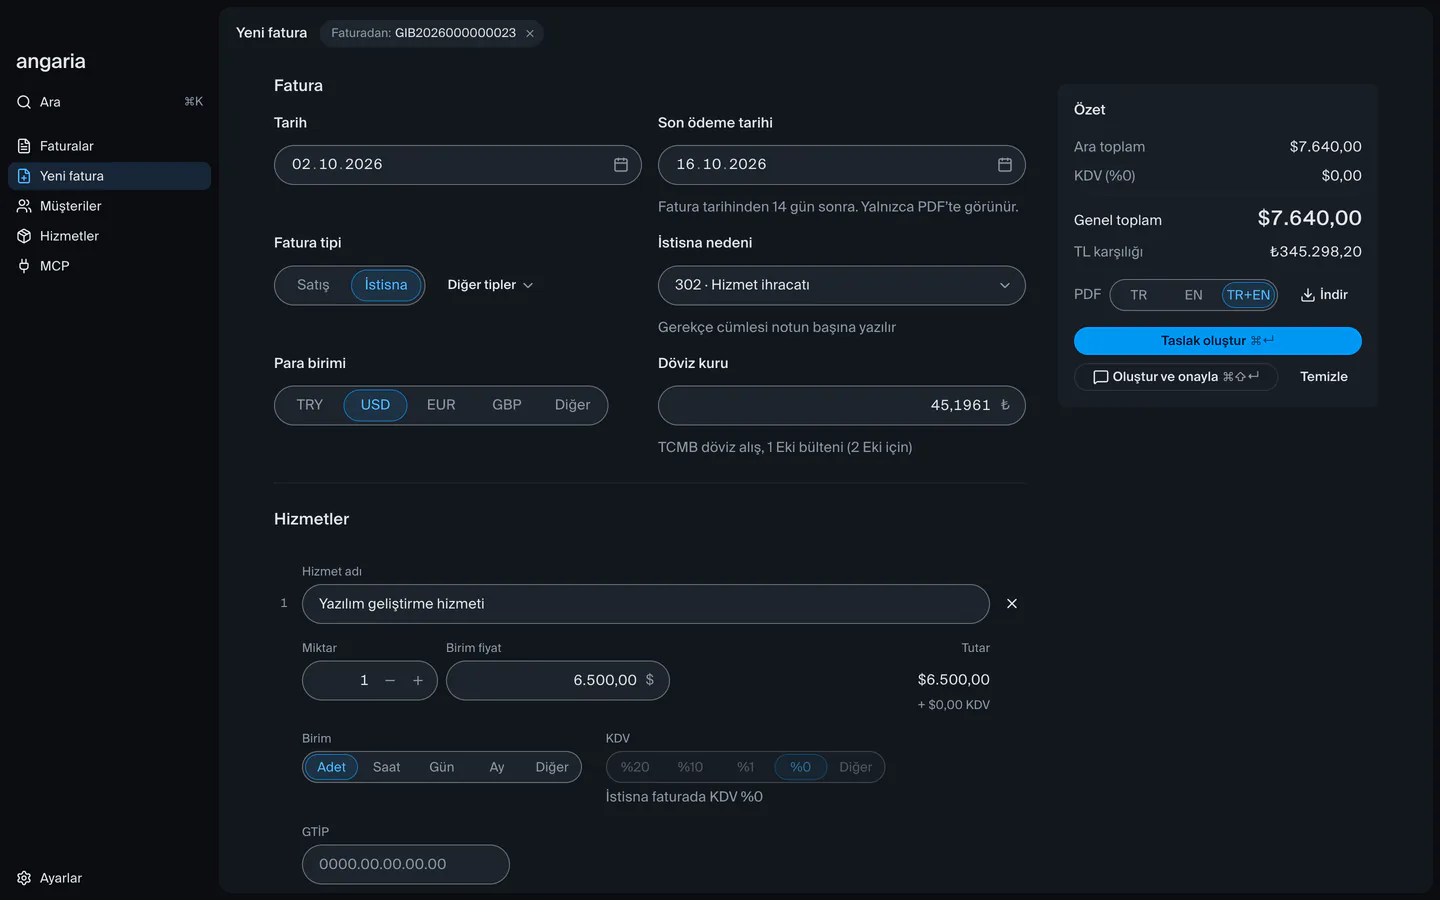
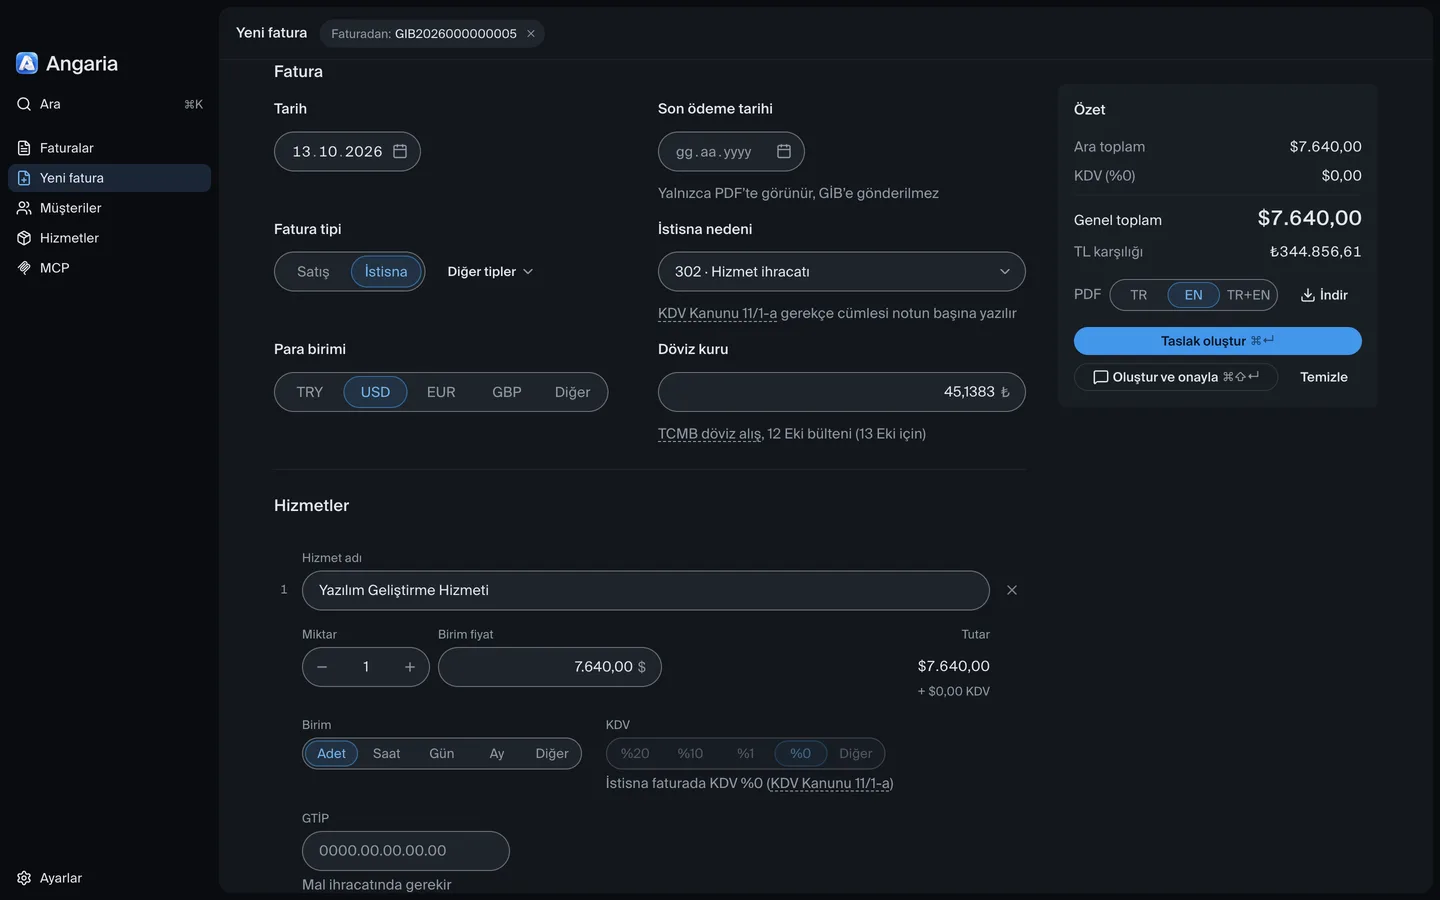
feat(web): recapture the app screenshots with the demo names and the current UI
Faturalar and Yeni fatura in light and dark, 1440 and 2880, plain and
framed, with Mert Düzgün's demo data and the release icon. The emulator
gets more of user 12345678's recent invoices and seeds every user's
documents oldest first, so their numbers rise with the date.

diff --git a/packages/gib-emulator/src/config.ts b/packages/gib-emulator/src/config.ts
@@ -259,6 +259,102 @@ const defaultSeedInvoices: Array<InvoiceFixture> = [
     userid: '12345678',
     vatRate: 20,
   },
+  // More of Mert Düzgün's months, so Faturalar's last three months look lived in
+  // (the landing's screenshots, docs/screenshots.md).
+  {
+    amount: 2400,
+    country: 'Almanya',
+    currency: 'EUR',
+    daysAgo: 1,
+    item: 'Danışmanlık Hizmeti',
+    note: '302 - 11/1-a Hizmet ihracatı.',
+    rate: 48.3021,
+    recipient: 'knobs.dev',
+    status: 'Onaylanmadı',
+    taxID: '2222222222',
+    userid: '12345678',
+    vatRate: 0,
+  },
+  {
+    amount: 3150,
+    country: 'Birleşik Krallık',
+    currency: 'GBP',
+    daysAgo: 2,
+    item: 'Ürün Tasarımı',
+    note: '302 - 11/1-a Hizmet ihracatı.',
+    rate: 56.1874,
+    recipient: 'attention awareness',
+    status: 'Onaylanmadı',
+    taxID: '2222222222',
+    userid: '12345678',
+    vatRate: 0,
+  },
+  {
+    amount: 3150,
+    country: 'Birleşik Krallık',
+    currency: 'GBP',
+    daysAgo: 26,
+    item: 'Ürün Tasarımı',
+    note: '302 - 11/1-a Hizmet ihracatı.',
+    rate: 55.9318,
+    recipient: 'attention awareness',
+    status: 'Onaylandı',
+    taxID: '2222222222',
+    userid: '12345678',
+    vatRate: 0,
+  },
+  {
+    amount: 7640,
+    country: 'Amerika Birleşik Dev',
+    currency: 'USD',
+    daysAgo: 33,
+    item: 'Yazılım Geliştirme Hizmeti',
+    note: '302 - 11/1-a Hizmet ihracatı.',
+    rate: 41.0457,
+    recipient: 'Agent Caffeine',
+    status: 'Onaylandı',
+    taxID: '2222222222',
+    userid: '12345678',
+    vatRate: 0,
+  },
+  {
+    amount: 18_500,
+    currency: 'TRY',
+    daysAgo: 47,
+    item: 'Web Sitesi Bakımı',
+    recipient: 'Vinena Studio',
+    status: 'Onaylandı',
+    taxID: '1234567890',
+    taxOffice: 'Kadıköy',
+    userid: '12345678',
+    vatRate: 20,
+  },
+  {
+    amount: 8000,
+    currency: 'TRY',
+    daysAgo: 55,
+    item: 'Logo Tasarımı',
+    recipient: 'Ahmet Buğra',
+    status: 'Onaylandı',
+    surname: 'Yiğiter',
+    taxID: '23456789060',
+    userid: '12345678',
+    vatRate: 20,
+  },
+  {
+    amount: 4200,
+    country: 'Almanya',
+    currency: 'EUR',
+    daysAgo: 61,
+    item: 'Danışmanlık Hizmeti',
+    note: '302 - 11/1-a Hizmet ihracatı.',
+    rate: 47.6514,
+    recipient: 'knobs.dev',
+    status: 'Onaylandı',
+    taxID: '2222222222',
+    userid: '12345678',
+    vatRate: 0,
+  },
   ...historyFixtures('87654321'),
 ];
 

diff --git a/packages/gib-emulator/src/state.ts b/packages/gib-emulator/src/state.ts
@@ -208,7 +208,15 @@ export function initialState(config: EmulatorConfig, now: number): State {
     sms: [],
     users: new Map(config.users.map((item) => [item.userid, structuredClone(item)])),
   };
-  for (const fixture of config.seedInvoices) {
+  // Oldest first, as GİB numbers documents: each user's numbers rise with the date.
+  const age = (fixture: InvoiceFixture) => {
+    const day = parseGIBDate(fixture.date);
+    return day
+      ? now - Date.UTC(day.year, day.month - 1, day.day)
+      : (fixture.daysAgo ?? 0) * 86_400_000;
+  };
+  const oldestFirst = config.seedInvoices.toSorted((a, b) => age(b) - age(a));
+  for (const fixture of oldestFirst) {
     if (state.users.has(fixture.userid)) {
       addFixture(state, fixture, now);
     }

diff --git a/docs/screenshots.md b/docs/screenshots.md
@@ -1,6 +1,8 @@
 # Screens
 
-Marketing screenshots of the Angaria desktop app for angaria.app. The frontend ran in a browser at a 1440×900 viewport, device scale 2, in the default color palette (mist, Serin), with the dev GİB fixtures, the TCMB rates of the GİB emulator and Suisse Intl. The sidebar shows the app's sections: Faturalar, Yeni fatura, Müşteriler, Hizmetler, MCP and Ayarlar. Every name, address, VKN/TCKN, IBAN and invoice is made up: Deniz Yılmaz Yazılım (a şahıs şirketi in Kadıköy) and its customers Northwind Labs Inc. (USD), Hafenblick Studio GmbH (EUR), Kestrel Analytics Ltd (GBP), Atlas Dijital Teknoloji A.Ş. and Mavi Kare Reklam Ltd. Şti. (TRY, Satış).
+Marketing screenshots of the Angaria desktop app for angaria.app, captured 2026-10-13. The dev frontend (`pnpm --filter desktop dev`) ran in a browser at a 1440×900 viewport, device scale 2 (captured through CDP `Page.captureScreenshot`), in the default palette (mist, Serin), against the GİB emulator (Ayarlar › Gelişmiş › Emülatör, user 12345678) with its seed invoices and TCMB rates, and Suisse Intl. The sidebar icon was swapped for the release (blue) icon before each capture. Every name and number is demo data: the seller is Mert Düzgün (emulator user 12345678), the customers are Agent Caffeine (USD), knobs.dev (EUR), attention awareness (GBP), Vinena Studio (TRY, Satış) and Ahmet Buğra Yiğiter (TRY, a person).
+
+A plain browser cannot keep the GİB session in the vault or force-close one (no cross-origin cookies), so do not reload during a capture: change the theme in Ayarlar › Görünüm and navigate inside the app. If GİB refuses a login for an open session, restart the emulator (touch a file in `packages/gib-emulator/src`).
 
 ## Files
 
@@ -12,10 +14,10 @@ Each app screen comes in eight files, `<screen>-<theme>[-framed]-<width>.webp`:
 - `2880` (2880×1800, retina) and `1440` (1440×900).
 - `-framed`: the same image as a macOS window: 20px corners (40px at 2880), concentric with the app's content panel (12px corners, 8px in from the window), on a transparent background, a 1px border and the three traffic lights in the site's gray (`#d4d4d4` light, `#3f3f3f` dark, as in `components/screenshot.tsx`). Without it: the window content edge to edge, as the app renders it.
 
-| Screen             | What it shows                                                                                                                                                                                                                                                                                                                                                                                                                                                                 |
-| ------------------ | ----------------------------------------------------------------------------------------------------------------------------------------------------------------------------------------------------------------------------------------------------------------------------------------------------------------------------------------------------------------------------------------------------------------------------------------------------------------------------- |
-| `faturalar-detail` | Faturalar, Son 3 ay: eleven invoices with totals and Taslak / Onaylı badges (two drafts, nine signed). The signed Northwind Labs invoice GIB2026000000023 ($7.640,00) is open: GİB's e-Arşiv preview with the QR code, PDF indir (Türkçe ve İngilizce), Tekrar kes.                                                                                                                                                                                                           |
-| `yeni-fatura`      | Yeni fatura from Tekrar kes on GIB2026000000023, scrolled to Fatura: the Tarih and Son ödeme tarihi date fields (14 gün sonra), İstisna with 302 · Hizmet ihracatı, USD at TCMB's buying rate (45,1961, the 1 Ekim 2026 bulletin), and the first of the two services under Hizmetler (Yazılım geliştirme hizmeti, 1 × 6.500,00 $) with its Birim and KDV choices. The Özet card shows Genel toplam, TL karşılığı, the TR+EN PDF switch, Taslak oluştur and Oluştur ve onayla. |
+| Screen             | What it shows                                                                                                                                                                                                                                                                                                                                                                                                                                                                                                |
+| ------------------ | ------------------------------------------------------------------------------------------------------------------------------------------------------------------------------------------------------------------------------------------------------------------------------------------------------------------------------------------------------------------------------------------------------------------------------------------------------------------------------------------------------------ |
+| `faturalar-detail` | Faturalar, Son 3 ay: eleven documents with totals and Taslak / Onaylı / İptal edildi / Silindi badges. The signed Agent Caffeine invoice GIB2026000000005 ($7.640,00) is open: GİB's e-Arşiv preview with the QR code, Angaria PDF (İngilizce), Tekrar kes.                                                                                                                                                                                                                                                  |
+| `yeni-fatura`      | Yeni fatura from Tekrar kes on GIB2026000000005, scrolled to Fatura: the Tarih and Son ödeme tarihi date fields, İstisna with 302 · Hizmet ihracatı and its KDV Kanunu 11/1-a link, USD at TCMB's buying rate (45,1383, the 12 Ekim 2026 bulletin, linked to TCMB's rates page), and the service under Hizmetler (Yazılım Geliştirme Hizmeti, 1 × 7.640,00 $) with its Birim and KDV choices. The Özet card shows Genel toplam, TL karşılığı, the PDF language switch, Taslak oluştur and Oluştur ve onayla. |
 
 The GİB portal has no dark theme, so it has one version and no frame. It is the other side of the landing's compare slider, against `yeni-fatura`:
 
